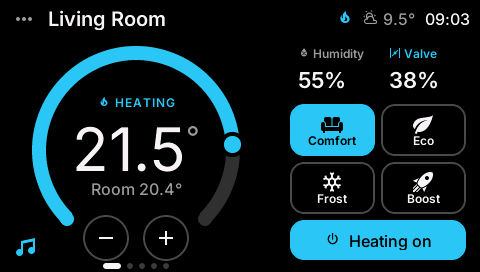
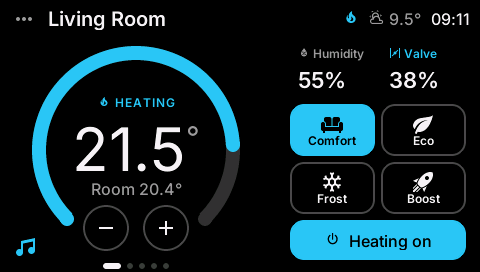
v3.3.0: dial display-only (-/+ only), waking touch only wakes, library reads HA's response wrapper, -/+ higher

Changed region(s): [[0.1562, 0.7353, 0.4062, 0.9706], [0.6875, 0.0294, 1.0, 0.1176], [0.4688, 0.4706, 0.5, 0.5882]]

diff --git a/README.md b/README.md
@@ -2,13 +2,13 @@
 
 [![Release](https://img.shields.io/github/v/release/Boisti13/esp32-s3-thermostat?include_prereleases)](https://github.com/Boisti13/esp32-s3-thermostat/releases)
 [![License: MIT](https://img.shields.io/badge/license-MIT-blue.svg)](LICENSE)
-![Version](https://img.shields.io/badge/version-3.2.2-orange)
+![Version](https://img.shields.io/badge/version-3.3.0-orange)
 ![ESPHome](https://img.shields.io/badge/ESPHome-2026.9.1-black)
 ![LVGL](https://img.shields.io/badge/LVGL-9-green)
 
 A wall thermostat for Home Assistant on a cheap 4.3" ESP32-S3 touch display.
-Every room's heating on one screen: swipe between rooms, drag the dial to set
-the temperature, tap a preset. Built with ESPHome and LVGL; made for
+Every room's heating on one screen: swipe between rooms, set the temperature
+with − / +, tap a preset. Built with ESPHome and LVGL; made for
 [Versatile Thermostat](https://github.com/jmcollin78/versatile_thermostat),
 but works with any Home Assistant `climate` entity that heats. A music page
 controls your Music Assistant speakers too.
@@ -26,9 +26,10 @@ controls your Music Assistant speakers too.
   16-bit colour dim filled shapes get stair-stepped edges; bright edges on
   black stay smooth. The home room comes first after power-up; after a
   sleep the panel wakes on the page and room it was showing.
-- **Big dial**: drag the knob or tap the ring, or use − / + (hold to repeat),
-  in the entity's own steps of 0.5 °C. Sent to Home Assistant when you let
-  go, so the dial never fights you.
+- **Big dial** shows the target; set it with − / + (hold to repeat) in
+  steps of 0.5 °C. The dial itself ignores touch, so it can't be changed
+  by accident and a swipe can start anywhere. Sent to Home Assistant a
+  moment after the last tap, so the dial never fights you.
 - **Colour tells the state**: orange while the radiator heats, blue when on
   and idle, grey when off. Status line: *Heating*, *Idle*, *Target reached*,
   *Window open*.
@@ -60,7 +61,8 @@ controls your Music Assistant speakers too.
   players the page controls; **+** next to another speaker joins it, so
   they play the same in sync (✓ takes it out again). The header shows
   *+1* per joined speaker.
-- **Runs on a battery**: dims after 15 s, deep-sleeps after *Sleep after*
+- **Runs on a battery**: dims after 15 s (a touch on the dimmed screen
+  only brightens it, it doesn't press anything), deep-sleeps after *Sleep after*
   (1 min by default) with the backlight held off. A touch or the BOOT button wakes it, and it shows the
   last known values at once (kept in RTC memory) while it reconnects. A
   *Stay awake* switch in Home Assistant keeps it on for updates or on USB.

diff --git a/CHANGELOG.md b/CHANGELOG.md
@@ -1,5 +1,22 @@
 # Changelog
 
+## v3.3.0 — 2026-11-01
+
+### Changed
+
+- The heating dial no longer reacts to touch (no dragging the knob or
+  tapping the ring): the target is set with − / + only. Swipes to the
+  next room now work from anywhere on the dial too.
+
+### Fixed
+
+- A touch on the dimmed screen pressed whatever was under the finger; now
+  it only brightens the screen.
+- Library stayed empty: Home Assistant wraps the action's answer in
+  `{"response": …}`, and the panel looked for the titles one level too
+  high.
+- − / + sit 10 px higher, clear of the page dots.
+
 ## v3.2.2 — 2026-11-01
 
 ### Fixed
